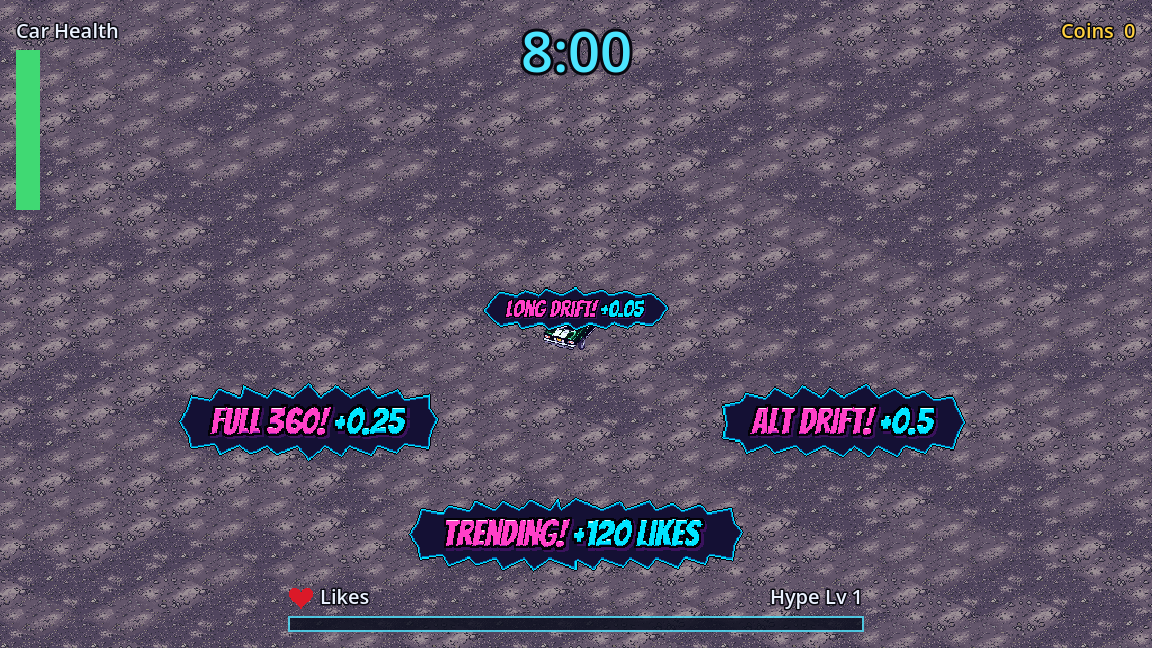
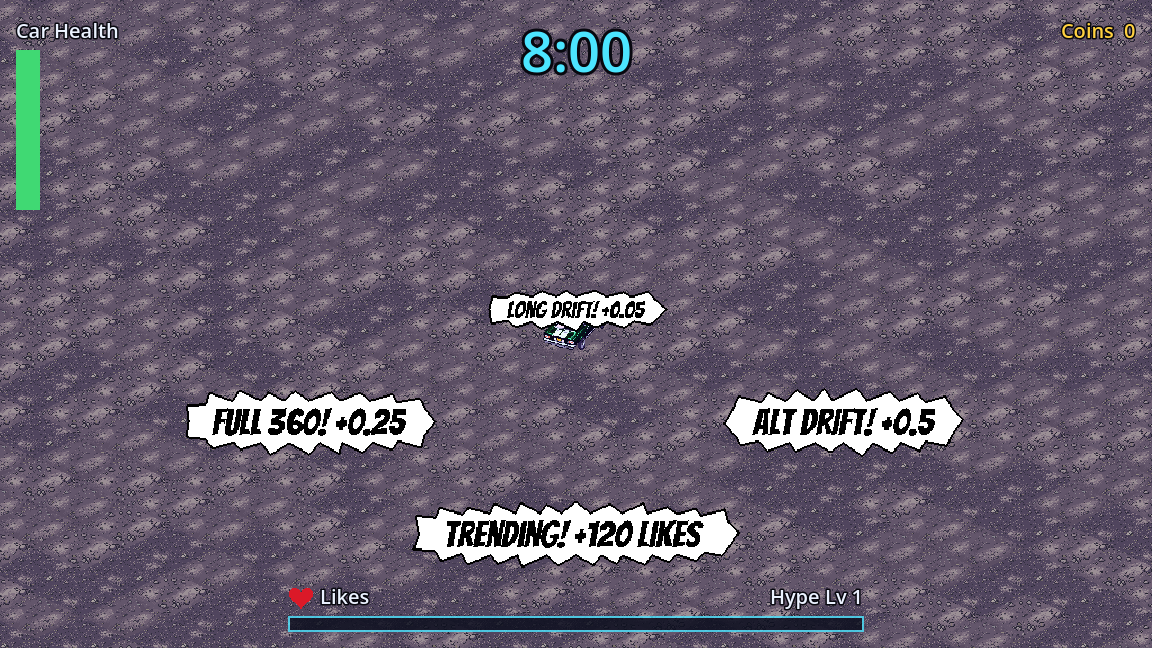
T-084 round 2: white burst, black border, black letters

diff --git a/game/README.md b/game/README.md
@@ -386,9 +386,9 @@ Task T-117 (Visual style, Decisions, "Drift marks"). While the car drifts, its t
 Task T-091 (UI Agent). When the car's `trick` signal fires, the trick's name pops out above the car, rises and fades (text from T-082, wording in `docs/hud-and-menus.md`, "Trick popups").
 
 - `scripts/hud/trick_popups.gd` (`TrickPopups`): a node in the world view (next to the car sprite) in both the run (`run.trick_popups`) and the drift prototype (`prototype.trick_popups`). `bind(car, car_position_callable)` listens to a car's `trick`; the run binds again each time it builds a new car. `show_popup(text, drawn_position, font_size)` shows any text. `bind_score(run_state, car_position_callable)` (task T-092) shows the challenge popup, "Trending! +{likes} Likes" (`SCORE_TEXT`), for the run state's `score` signal; the run binds it once. `bind_combo(run_state, car_position_callable)` (task T-083) shows the trick popups from the run state's `combo_trick` signal, with the amount added (`trick_text(trick_id, added)`, e.g. "FULL 360! +0.25", the name only at the cap); once bound, the car's own `trick` signal no longer shows a popup, so the run does not show two. The drift prototype binds only the car and shows names only. `popups()` lists the popups showing. Sizes are `SIZE_NORMAL` and `SIZE_SMALL` (extended drift): they pick the normal or the small baked popup (`PIXEL_SCALE` 0.8 drawn px per popup pixel, drawn with nearest filtering).
-- **Comic look (task T-084):** `scripts/hud/trick_popup_art.gd` (`TrickPopupArt`) bakes one hard-edged RGBA image per text and size, at the first use, cached (`texture(text, style)`, `bake()`): the text in Bangers (smoothing off, glyphs read from the font server, no viewport needed, so it also works headless), split into the name (hot pink) and the amount (cyan), a near-black outline and purple shadow, on a jagged navy burst with a stepped cyan edge, sized to the text (fixed seed, same texture for the same text). Letters get a highlight and shade row only at the normal size and only on flat runs, so slanted edges show no specks. Only opaque or fully transparent pixels, no Redgull red, under 30 colours. `tools/build_trick_popup.py` made the first sample (round 1) and is no longer used by the game. No PixelLab call was made for this. Screenshot: `bash game/tools/screenshot.sh res://tests/fixtures/trick_popups_demo.tscn screenshots/trick_popups.png 10` (all four popups); `combo_demo.tscn` shows the real combo path.
+- **Comic look (task T-084, round 2):** `scripts/hud/trick_popup_art.gd` (`TrickPopupArt`) bakes one hard-edged RGBA image per text and size, at the first use, cached (`texture(text, style)`, `bake()`): the text in Bangers (smoothing off, glyphs read from the font server, no viewport needed, so it also works headless), every letter black on one straight baseline (names and amounts alike, no outline or shadow), on a white jagged burst with a 2 pixel black border, sized to the text (fixed seed, same texture for the same text). Round 1 had pink names, cyan amounts and a navy burst; the board's playtest asked for white and black. Only opaque or fully transparent pixels, three colours (black, white, nothing), no Redgull red. `tools/build_trick_popup.py` made the first sample (round 1, old colours) and is no longer used by the game. No PixelLab call was made for this. Screenshot: `bash game/tools/screenshot.sh res://tests/fixtures/trick_popups_demo.tscn screenshots/trick_popups.png 10` (all four popups); `combo_demo.tscn` shows the real combo path.
 - **Font:** Bangers Regular 2.100, by Vernon Adams ("Copyright 2010 The Bangers Project Authors"), SIL Open Font License 1.1 (use and bundling in a commercial game allowed; the font may not be sold on its own). Source: https://github.com/google/fonts/tree/main/ofl/bangers (commit `66928797f271fed5ee428544e7229685e2d90127`); files `game/fonts/bangers/Bangers-Regular.ttf`, the licence text `game/fonts/bangers/OFL.txt` next to it, and the record `bangers.json`.
-- **Tests:** `tests/unit/test_trick_popups.gd` (part of the GUT suite): each trick's text near the car, rising and going away, the small extended-drift popup, a second run, any text, and a drive in the prototype. `tests/unit/test_trick_popup_art.gd` (T-084): no semi-transparent pixels, a transparent border, no colour near the heart red, the burst fits each text, wider for longer text, the same texture for the same text, name pink and amount cyan, nearest filtering. `tests/unit/test_challenge_popup.gd`: the score signal and a completed challenge in the run. Screenshot of a challenge popup in a run from the main menu: `bash game/tools/screenshot.sh res://tests/fixtures/challenge_popup_demo.tscn screenshots/challenge_popup.png 30`. Trick screenshot: `bash game/tools/screenshot.sh res://tests/fixtures/trick_popups_demo.tscn screenshots/trick_popups.png 10`.
+- **Tests:** `tests/unit/test_trick_popups.gd` (part of the GUT suite): each trick's text near the car, rising and going away, the small extended-drift popup, a second run, any text, and a drive in the prototype. `tests/unit/test_trick_popup_art.gd` (T-084): no semi-transparent pixels, a transparent border, no colour near the heart red, the burst fits each text, wider for longer text, the same texture for the same text, only white and black with a black border, name and amount both black, letters on one baseline, nearest filtering. `tests/unit/test_challenge_popup.gd`: the score signal and a completed challenge in the run. Screenshot of a challenge popup in a run from the main menu: `bash game/tools/screenshot.sh res://tests/fixtures/challenge_popup_demo.tscn screenshots/challenge_popup.png 30`. Trick screenshot: `bash game/tools/screenshot.sh res://tests/fixtures/trick_popups_demo.tscn screenshots/trick_popups.png 10`.
 
 ## Pause screen
 

diff --git a/docs/hud-and-menus.md b/docs/hud-and-menus.md
@@ -43,7 +43,7 @@ The arrow to the nearest challenge and the kaiju's health bar are T-050. The HUD
 
 ### Trick popups
 
-Task T-091. When the car sends a `trick` signal (Game loop architecture; the ids are in `game/README.md`, "Tricks"), a comic-style text pops out just above the car with the trick's name, grows quickly to full size, rises about 40 pixels and fades, in one second: LONG DRIFT! (extended drift), FULL 360! and ALT DRIFT! (text approved in T-082). Extended-drift popups are smaller and flatter (a shorter burst), since they come every second. The look (task T-084) is comic-book: the text in the Bangers comic font with hard pixel edges (no smoothing), the trick name in hot pink and the amount in cyan, a near-black outline and a purple drop shadow, on a dark navy jagged comic burst with a stepped cyan edge. The burst is sized to fit each text, with the left and right spike tips kept short. One popup pixel is two art pixels. Bangers has capitals only, so "Trending! +{likes} Likes" shows in capitals. It sits near the car, clear of the run timer at the top centre. It works in the run, including runs started from the main menu, and in the drift prototype. The challenge popup (task T-092) reuses it: when a challenge is completed, the run state's `score` signal shows "Trending! +{likes} Likes" (text approved in T-048, `hud.score_flash`) from the car in the same look and size as the normal trick popups, with the likes the challenge gave. Since task T-083 each trick popup also shows what the trick added to the combo, after its name, in the approved "+{amount}" text (T-082): "LONG DRIFT! +0.05", "FULL 360! +0.25", "ALT DRIFT! +0.5". At the combo cap the trick adds nothing and only the name shows. In the run the popups follow the run state's combo signal; the drift prototype has no combo and shows the name only. How it is built is in `game/README.md`, "Trick popups".
+Task T-091. When the car sends a `trick` signal (Game loop architecture; the ids are in `game/README.md`, "Tricks"), a comic-style text pops out just above the car with the trick's name, grows quickly to full size, rises about 40 pixels and fades, in one second: LONG DRIFT! (extended drift), FULL 360! and ALT DRIFT! (text approved in T-082). Extended-drift popups are smaller and flatter (a shorter burst), since they come every second. The look (task T-084, reworked after the board's playtest of 2026-10-13) is a real comic-book popup: a white jagged burst with a black border, every letter black (trick names and amounts alike) in the Bangers comic font on one straight baseline, with hard pixel edges (no smoothing) and no other colour. Black on white reads over both the dark asphalt and the dusty gravel. The burst is sized to fit each text, with the left and right spike tips kept short. One popup pixel is two art pixels. Bangers has capitals only, so "Trending! +{likes} Likes" shows in capitals. It sits near the car, clear of the run timer at the top centre. It works in the run, including runs started from the main menu, and in the drift prototype. The challenge popup (task T-092) reuses it: when a challenge is completed, the run state's `score` signal shows "Trending! +{likes} Likes" (text approved in T-048, `hud.score_flash`) from the car in the same look and size as the normal trick popups, with the likes the challenge gave. Since task T-083 each trick popup also shows what the trick added to the combo, after its name, in the approved "+{amount}" text (T-082): "LONG DRIFT! +0.05", "FULL 360! +0.25", "ALT DRIFT! +0.5". At the combo cap the trick adds nothing and only the name shows. In the run the popups follow the run state's combo signal; the drift prototype has no combo and shows the name only. How it is built is in `game/README.md`, "Trick popups".
 
 (The pause and level-up screens: to be written.)
 

diff --git a/tasks/T-084-trick-popup-art.md b/tasks/T-084-trick-popup-art.md
@@ -135,3 +135,15 @@ Not approved yet. The board wants the popups to look like real comic book popups
 - a font like the board's reference ("ACTION!": heavy, condensed, slanted comic capitals; a watermarked stock image, used only as a reference, nothing copied from it). Bangers is that style, so it stays. The reference's letters bob up and down; ours stay on one straight baseline.
 
 Keep everything else: the jagged burst fitted to each text, the small extended-drift size, the timing, the code API, the tests' rules (no semi-transparent pixels, no Redgull red). Update the tests that pinned pink names and cyan amounts.
+
+## Round 2 (2026-10-13; no PixelLab calls)
+
+Reworked after the board's playtest. 0 PixelLab calls, 0 cost.
+
+**What changed:** `game/scripts/hud/trick_popup_art.gd` now bakes a white jagged burst with a 2 pixel black border and all letters black (names and amounts alike) in Bangers on one straight baseline. No text outline, shadow, highlight or shade rows any more (black on white needs none), so the palette is only black and white. Kept: burst fitted to each text, small extended-drift size, timing/rise/fade, code API (`texture`, `bake`, `text_box`, `style_for`), no semi-transparent pixels, no Redgull red, nearest filtering, caching. Contrast: the black border separates the white burst from both the dark asphalt and the dusty gravel (the screenshots show the gravel ground).
+
+**Tests:** `game/tests/unit/test_trick_popup_art.gd`: the pink/cyan test replaced by three: only white and black with a black border, name and amount both black, letters on one baseline. Full GUT suite: 420 of 420 pass (T-091, T-083 and T-092 tests included). Python tool tests run again, see below.
+
+**Screenshots** (`art-archive/T-084/`, replacing the round 1 images, which stay in git history): `T-084_trick_popups_demo.png` (all four popups), `T-084_combo_demo.png` (combo path), `T-084_challenge_popup_demo.png` (taken at frame 30, popup on screen: "TRENDING! +100 LIKES").
+
+**Documents updated:** `docs/hud-and-menus.md` (Content, "Trick popups"), `game/README.md` (Trick popups). Godot's line-ending-only .import and project.godot changes reverted.
